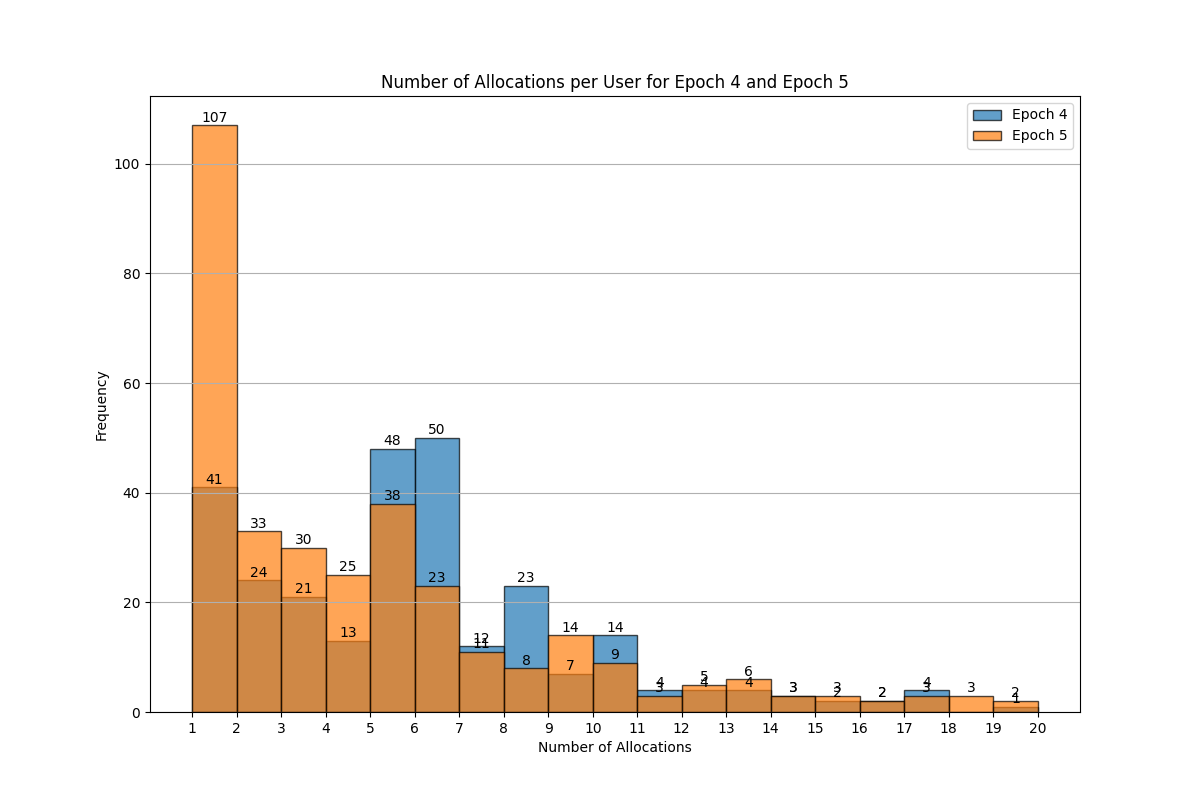
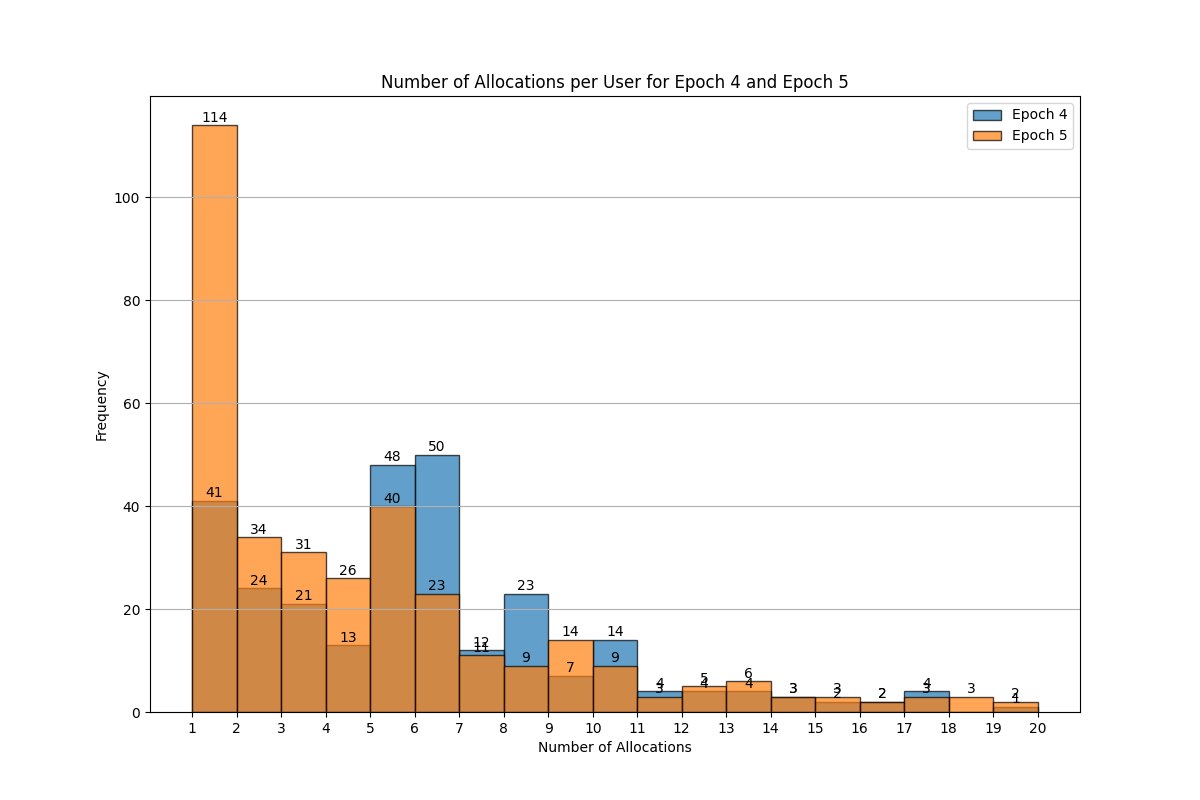
refresh data

diff --git a/_includes/table_users.html b/_includes/table_users.html
@@ -45,10 +45,10 @@
     <tr>
       <td>5</td>
       <td>898</td>
-      <td>349</td>
-      <td>331</td>
-      <td>179</td>
-      <td>0.389</td>
+      <td>362</td>
+      <td>344</td>
+      <td>187</td>
+      <td>0.403</td>
     </tr>
   </tbody>
 </table>

diff --git a/_includes/table_amounts.html b/_includes/table_amounts.html
@@ -45,9 +45,9 @@
     <tr>
       <td>5</td>
       <td>220.261</td>
-      <td>200.728</td>
-      <td>16.464</td>
-      <td>0.089</td>
+      <td>202.539</td>
+      <td>16.703</td>
+      <td>0.080</td>
       <td>0.082</td>
     </tr>
   </tbody>

diff --git a/_includes/current_datetime.html b/_includes/current_datetime.html
@@ -7,6 +7,6 @@
     <title>Current Date and Time</title>
 </head>
 <body>
-    <p>Last update: 2024-10-22 21:43:13</p>
+    <p>Last update: 2024-10-23 08:01:15</p>
 </body>
 </html>
